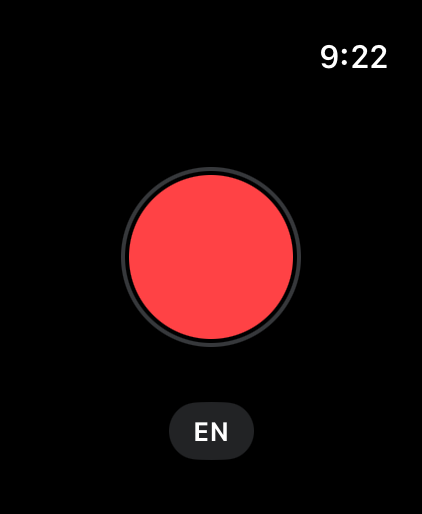
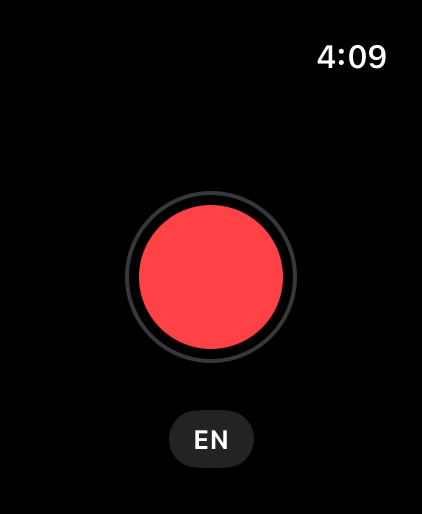
Refresh for 1.2: re-captured shots, free-tier line derived from the paywall
The pricing sentence now carries the one-time/never-resets fact and the
keeps-working promise, worded from PaywallView (same derivation rule as the
ASC listing and panel 7, murmur#149). Shots re-captured on the 1.2 build:
the watch shot predated the capture-layout redesign (murmur#128) and the
recording shot predated the opaque backing (murmur#154).

Changed region(s): [[0.2773, 0.3113, 0.7393, 0.716], [0.4005, 0.7782, 0.6161, 0.9339], [0.7393, 0.0934, 0.9242, 0.1556]]

diff --git a/index.html b/index.html
@@ -198,7 +198,7 @@
 <section class="pricing">
   <div class="line">
     <h2>Your first 50 ideas include everything</h2>
-    <p>Capture, on-device transcription, every language, Apple Watch, and automatic sync. Murmur Pro removes the capture limit — US$5.99/month or US$59.99/year.</p>
+    <p>Every language, Apple Watch, and automatic sync. That allowance is one-time; it never resets — and when it runs out, everything you've captured keeps working. Murmur Pro adds one thing: unlimited new ideas — US$5.99/month or US$59.99/year.</p>
   </div>
 </section>
 
